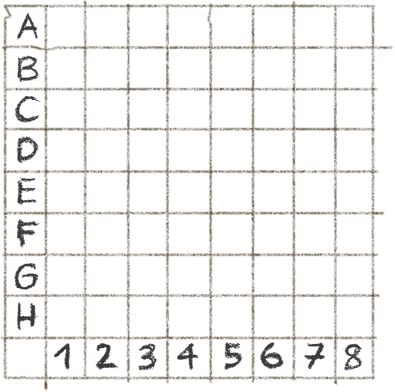
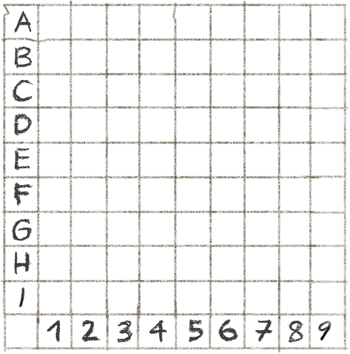
Fixed grid size, added start button, minor layout tweaks.

diff --git a/WebContent/battlecss.css b/WebContent/battlecss.css
@@ -10,6 +10,15 @@ body	{
 	
 }
 
+#start{
+	background-image:url("start.png");
+	position: absolute;
+	width: 226px;
+	height: 134px;
+	top: 630px;
+	left: 680px;
+}
+
 /*Mangijate ruudustikud*/
 
 #grid1		{
@@ -17,17 +26,17 @@ body	{
 	position: absolute;
 	top: 268px;
 	left: 120px;
-	width: 395px;
-	height: 392px;
+	width: 350px;
+	height: 354px;
 }
 
 #grid2		{
 	background-image:url("grid2.png");
 	position: absolute;
-	top: 260px;
+	top: 268px;
 	left: 550px;
-	width: 395px;
-	height: 392px;
+	width: 350px;
+	height: 354px;
 }
 
 /*Tekstid*/
@@ -44,8 +53,8 @@ body	{
 #enemy{
 	background-image:url("enemy.png");
 	position: absolute;
-	top: 670px;
-	left: 600px;
+	top: 630px;
+	left: 570px;
 	width: 86px;
 	height: 27px;
 			
@@ -54,8 +63,8 @@ body	{
 #player{
 	background-image:url("player.png");
 	position: absolute;
-	top: 670px;
-	left: 200px;
+	top: 628px;
+	left: 160px;
 	width: 84px;
 	height: 29px;
 	
@@ -88,5 +97,14 @@ body	{
 	height: 342px;
 	top: 790px;
 	left: 100px;
+}
+
+#pencil{
+	background-image:url("pencil.png");
+	position: absolute;
+	width: 276px;
+	height: 154px;
+	top: 720px;
+	left: 460px;
 }
 

diff --git a/WebContent/index.html b/WebContent/index.html
@@ -34,10 +34,13 @@
             <div id="submarine2b" class="ship2"></div>
         </div>
         
+<div id="start" class="button"></div>        
 <div id="title" class="text"></div>
 <div id="player" class="text"></div>
 <div id="enemy" class="text"></div>
 <div id="year" class="text"></div>
+<div id="pencil" class="image"></div>
+
 
 <div id="notes"></div>
 
